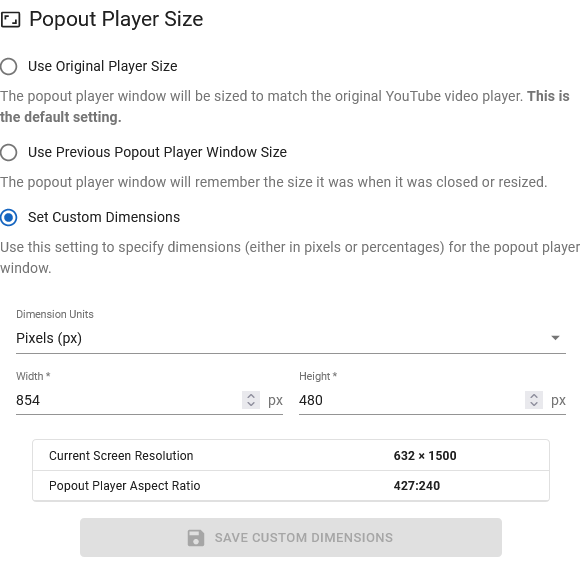
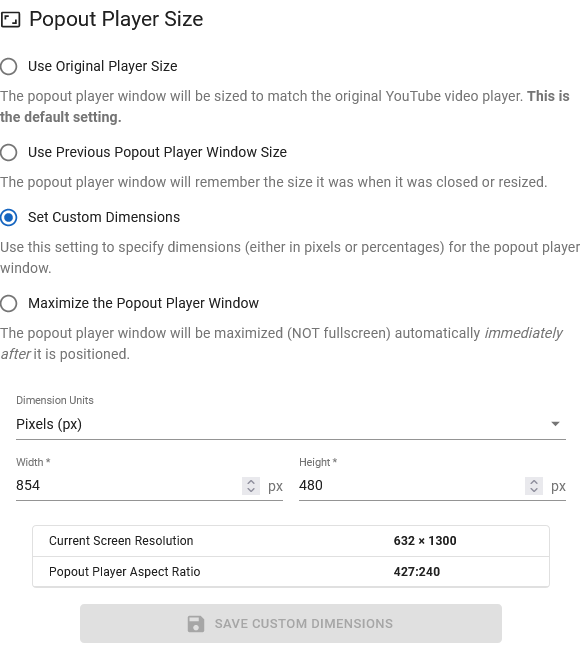
New Size Mode: Maximize Popout Player Window (#357)
* add new option and corresponding logic to maximize popout player window; closes #354
* tweak verbiage of maximized size mode option description
* update Options documentation page and screenshots

Changed region(s): [[0.0, 0.089, 1.0, 0.9791], [0.0, 0.0, 0.3711, 0.0593], [0.5567, 0.4747, 0.9588, 0.534]]

diff --git a/app/scripts/options/components/AdvancedTab.jsx b/app/scripts/options/components/AdvancedTab.jsx
@@ -17,7 +17,7 @@ import SettingsIcon from "@material-ui/icons/Settings";
 
 import TabPanelHeader from "./TabPanelHeader";
 
-import { useOptionsForDomain } from "../hooks/useOptions";
+import { useOptions, useOptionsForDomain } from "../hooks/useOptions";
 
 import { useDebounce } from "react-use";
 
@@ -29,12 +29,22 @@ export default function AdvancedTab() {
   const { options, setOption } = useOptionsForDomain(DOMAIN);
   console.log("AdvancedTab ~ options", options);
 
+  const { getOptionForDomain } = useOptions();
+  const canOpenInBackground =
+    getOptionForDomain("size", "mode") !== "maximized";
+
   const [isFirefox, setIsFirefox] = React.useState(false);
   React.useEffect(() => {
     (async () => {
       setIsFirefox(await IsFirefox());
     })();
   }, []);
+
+  React.useEffect(() => {
+    if (!canOpenInBackground) {
+      setOption("background", false);
+    }
+  }, [canOpenInBackground]);
 
   const handlePermissionSwitchToggle = async (
     optionName,
@@ -121,7 +131,7 @@ export default function AdvancedTab() {
   function BackgroundTabControl() {
     return (
       <>
-        <FormControl>
+        <FormControl disabled={!canOpenInBackground}>
           <FormControlLabel
             label={browser.i18n.getMessage(
               "OptionsAdvancedOpenInBackgroundLabel"
@@ -137,14 +147,27 @@ export default function AdvancedTab() {
               />
             }
           />
-          <Typography
-            color="textSecondary"
-            dangerouslySetInnerHTML={{
-              __html: browser.i18n.getMessage(
-                "OptionsAdvancedOpenInBackgroundDescription"
-              ),
-            }}
-          />
+          {canOpenInBackground ? (
+            <Typography
+              color="textSecondary"
+              dangerouslySetInnerHTML={{
+                __html: browser.i18n.getMessage(
+                  "OptionsAdvancedOpenInBackgroundDescription"
+                ),
+              }}
+            />
+          ) : (
+            <Alert severity="warning">
+              <Typography
+                dangerouslySetInnerHTML={{
+                  __html: browser.i18n.getMessage(
+                    "OptionsSettingDisabled",
+                    browser.i18n.getMessage("OptionsSizeModeMaximizedLabel")
+                  ),
+                }}
+              />
+            </Alert>
+          )}
         </FormControl>
       </>
     );

diff --git a/docs/pages/options.html b/docs/pages/options.html
@@ -128,6 +128,12 @@ order: 5
                         </tbody>
                     </table>
                 </dd>
+
+                <dt>Maximize the Popout Player Window <span class="badge red white-text">New!</span></dt>
+                <dd>
+                    <p>The popout player window will be maximized (NOT fullscreen) automatically <em>immediately after</em> it is positioned.</p>
+                    <p>When you select this setting, the popout player window will be positioned according to the "Popout Player Position" option, then it will be maximized. This should allow you to have the popout player window use the entire screen of a secondary display/monitor.</p>
+                </dd>
             </dl>
         </div>
     </div>
@@ -213,6 +219,7 @@ order: 5
                 <dt>Open in Background Window/Tab <span class="badge red white-text">New!</span></dt>
                 <dd>
                     <p>Enabling this will cause the popout player to be opened in a background window/tab. <strong>The default for this setting is disabled.</strong></p>
+                    <p><i class="small left material-icons red-text">info</i> <strong>Note:</strong> This setting is not available when using the "Maximize the Popout Player Window" mode.</p>
                 </dd>
 
                 <dt>Use "No Cookie" Version of YouTube <span class="badge red white-text">New!</span></dt>

diff --git a/app/scripts/background/popout.js b/app/scripts/background/popout.js
@@ -214,7 +214,14 @@ export const OpenPopoutPlayerInWindow = async (
     window = await browser.windows.update(window.id, position);
   }
 
-  if (openInBackground) {
+  if ((await Options.GetLocalOption("size", "mode")) === "maximized") {
+    console.log(
+      "[Background] OpenPopoutPlayerInWindow() :: Maximizing Popout Player window"
+    );
+    window = await browser.windows.update(window.id, {
+      state: "maximized",
+    });
+  } else if (openInBackground) {
     if (!isNaN(originTabId) && parseInt(originTabId, 10) > 0) {
       // try to move the original window back to the foreground
       console.log(

diff --git a/app/scripts/helpers/constants.js b/app/scripts/helpers/constants.js
@@ -40,7 +40,12 @@ export const OPTIONS_BEHAVIOR_CONTROLS_VALUES = [
   "standard",
   "extended",
 ];
-export const OPTIONS_SIZE_MODE_VALUES = ["current", "previous", "custom"];
+export const OPTIONS_SIZE_MODE_VALUES = [
+  "current",
+  "previous",
+  "custom",
+  "maximized",
+];
 export const OPTIONS_SIZE_UNITS_VALUES = ["pixels", "percentage"];
 export const OPTIONS_POSITION_MODE_VALUES = ["auto", "previous", "custom"];
 
